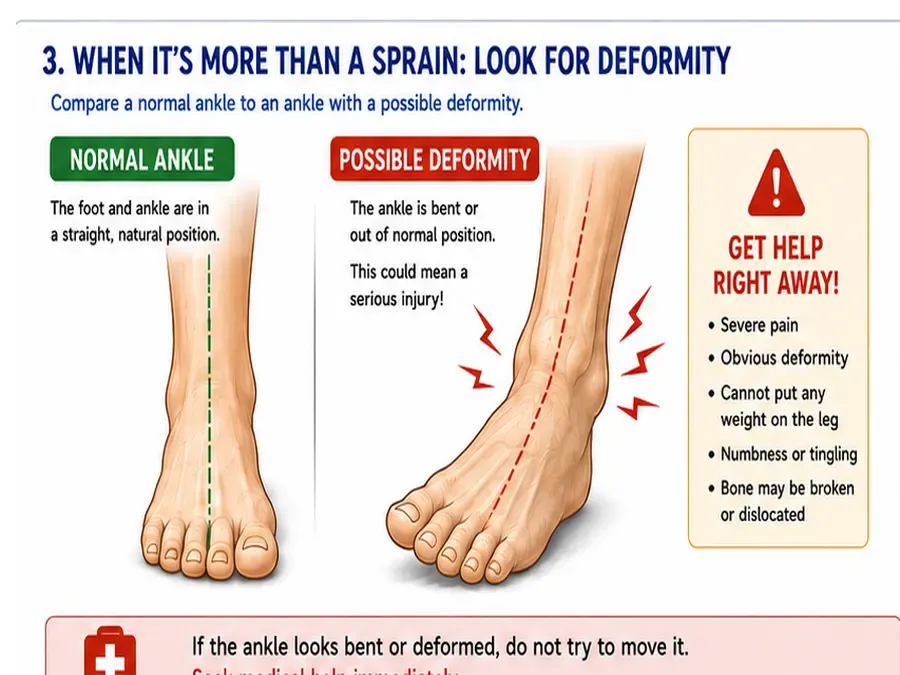
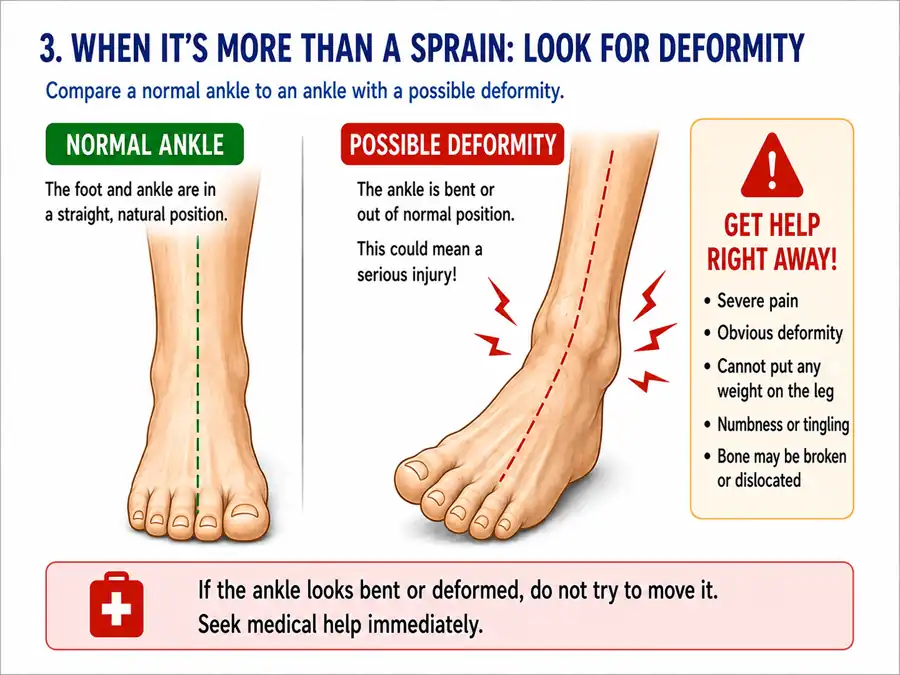
Fix the five diagrams whose content was clipped by the frame
Redraws of the group-A defects found by the display-size sweep. Every
previously clipped line is now complete and inside the frame:

- ankle-sprain-deformity-warning: "Seek medical help immediately." is whole,
  in a callout box with a bottom border
- ankle-sprain-rice-steps: the heading reads COMPRESSION and the dose reads
  15-20
- ankle-sprain-inversion-mechanism: the caption reads "stretched"
- eap-know-your-school-map: AED LOCATION, TRAINED ADULT LOCATION and the tip
  box are all complete
- eap-yell-for-help-scene: no trace of the neighbouring AED card in the
  bottom margin

Three of the five are 7-8 units and two of those were clipping a get-help
instruction, which is why this went first.

Margins on the redraws measure 14-52px of clean background on every edge
against a 12px ask. Note for future checks: two cards carry a deliberate 1px
hairline border at the canvas edge, so margins must be measured from inside
that rule or the check reports a false zero. inversion-mechanism kept a
genuine alpha channel - 60.6% fully transparent, all four corners clear.

Designs are otherwise unchanged from what shipped.

Gates: validate:content 54 files 0 errors, clean build, and a browser walk at
375px confirming all five render at 343px with 0 placeholders and no console
or network errors.

Claude-Session: https://claude.ai/code/session_01Caqwh4KEm6rymWthKUQfsq

diff --git a/docs/HANDOFF.md b/docs/HANDOFF.md
@@ -402,7 +402,26 @@ A 900 px source is therefore shown at **38–46%**. A six-panel strip gives each
 panel ~57 px of phone width; a five-column table gives each column ~68 px.
 **Author to 343 px, not to 900.**
 
-### A. Composition defects — content clipped by the frame (5)
+### A. Composition defects — content clipped by the frame (5) — ✅ FIXED 2026-08-03
+
+**All five were redrawn and landed the same day.** Every clipped line is now
+complete and inside the frame: `deformity-warning` shows *"Seek medical help
+immediately."* in a callout with a full bottom border, `rice-steps` reads
+**COMPRESSION** and **15–20**, `inversion-mechanism` reads **stretched**,
+`know-your-school-map` shows **AED LOCATION** / **TRAINED ADULT LOCATION**
+and a complete tip box, and `yell-for-help-scene` has no trace of the AED
+card at its bottom edge. Designs are otherwise unchanged.
+
+Margins measured on the redraws: **14–52 px of clean background on every edge
+of every file** (the brief asked for ≥ 12). Two of the cards carry a
+deliberate 1 px hairline border at the canvas edge — measure margins from
+*inside* that rule or the check reports a false 0.
+`inversion-mechanism` kept a genuine alpha channel (60.6% fully transparent,
+all four corners clear). Verified live at 375 px: all five render at 343 px,
+0 placeholders, 0 console or network errors.
+
+The original findings are kept below, since the redo brief was built from
+them and the failure modes are worth not repeating.
 
 Confirmed at full resolution, not inferred. These are defects at *any* size;
 the sweep is just what surfaced them.
